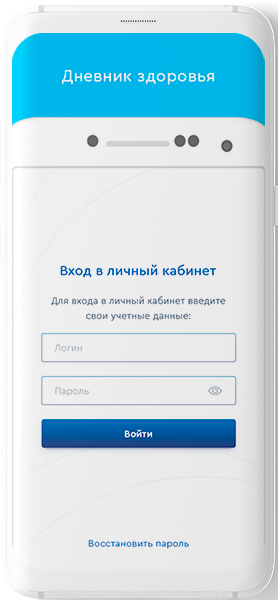
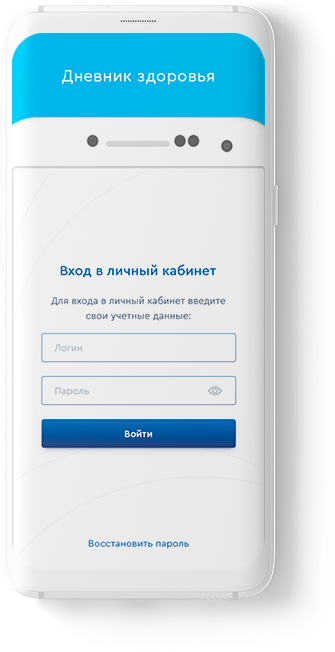
optimization

diff --git a/Redsoft/app/index.html b/Redsoft/app/index.html
@@ -15,7 +15,7 @@
         <header class="promo__header">
           <div class="container header">
             <div class="header__logo">
-              <img src="img/logo-gray.png" alt="Моё здоровье" />
+              <img src="img/logo.png" alt="Моё здоровье" />
             </div>
             <div class="header__nav nav">
               <ul class="nav__list">
@@ -54,10 +54,10 @@
               style="background-image: url(img/slide-1.jpg);"
             ></div>
             <div class="slider__item-inner">
-              <div class="slider__title title">
+              <h2 class="slider__title title">
                 Расширяем возможности предоставления качественных медицинских
                 услуг
-              </div>
+              </h2>
               <div class="slider__text">
                 «Дневник здоровья» – новый сервис для самоконтроля показателей
                 состояния здоровья, разработанный для участников программы «Мое
@@ -76,9 +76,9 @@
               style="background-image: url(img/slide-2.jpg);"
             ></div>
             <div class="slider__item-inner">
-              <div class="slider__title title">
+              <h2 class="slider__title title">
                 Следить за здоровьем станет проще
-              </div>
+              </h2>
               <div class="slider__text">
                 Скоро вы сможете находиться на связи со своим лечащим врачом
                 независимо от своего местоположения, вести дневник мониторинга
@@ -103,12 +103,16 @@
       <div class="account__wrapper">
         <div class="container account-inner">
           <div class="account__image">
-            <img src="img/smart-phone2.png" alt="Дневник здоровья" />
+            <picture>
+              <source type="image/webp" srcset="img/smart-phone.webp" />
+              <source type="image/jpeg" srcset="img/smart-phone.png" />
+              <img src="img/smart-phone.png" alt="Дневник здоровья" />
+            </picture>
           </div>
           <div class="account__info">
-            <div class="account__info-title title">
+            <h2 class="account__info-title title">
               Что такое «Дневник здоровья»?
-            </div>
+            </h2>
             <div class="account__info-text">
               <span>Дневник пациента — это удобный онлайн-сервис:</span>
               <ul>
@@ -142,7 +146,7 @@
     <section id="functions" class="functions">
       <div class="functions__wrapper">
         <div class="container functions-inner">
-          <div class="functions__title title">Функции приложения</div>
+          <h2 class="functions__title title">Функции приложения</h2>
           <div class="functions__items">
             <div class="item">
               <div class="item__icon">
@@ -201,9 +205,9 @@
     <section id="features" class="features">
       <div class="features__wrapper">
         <div class="container-fluid features-inner">
-          <div class="features__title title">
+          <h2 class="features__title title">
             Ведите персональный дневник мониторинга здоровья
-          </div>
+          </h2>
           <div class="features__content">
             <ul class="features__content-list">
               <li class="item">
@@ -249,7 +253,11 @@
               </li>
             </ul>
             <div class="features__content-image">
-              <img src="img/smart-phone-three.png" alt="phones" />
+              <picture>
+                <source type="image/webp" srcset="img/smart-phone-three.webp" />
+                <source type="image/jpeg" srcset="img/smart-phone-three.png" />
+                <img src="img/smart-phone-three.png" alt="phones" />
+              </picture>
             </div>
           </div>
         </div>
@@ -261,12 +269,16 @@
     <section id="spec" class="spec">
       <div class="spec__wrapper">
         <div class="spec__image">
-          <img src="img/tablet.png" alt="Сводка" />
+          <picture>
+            <source type="image/webp" srcset="img/tablet.webp" />
+            <source type="image/jpeg" srcset="img/tablet.png" />
+            <img src="img/tablet.png" alt="Сводка" />
+          </picture>
         </div>
         <div class="spec__info">
-          <div class="spec__info-title title">
+          <h2 class="spec__info-title title">
             Специалистам
-          </div>
+          </h2>
           <div class="spec__info-text">
             <ul>
               <li>
@@ -300,16 +312,16 @@
     <section id="access" class="access">
       <div class="access__wrapper">
         <div class="container access-inner">
-          <div class="access__title title">
+          <h2 class="access__title title">
             Получите бесплатный доступ к «Дневнику здоровья»
-          </div>
+          </h2>
           <div class="access__text">
             Оставьте свою электронную почту <br />и вы узнаете о запуске данного
             сервиса первым!
           </div>
           <form
             id="form-access"
-            action=""
+            action="#"
             method="POST"
             class="access__form form"
           >
@@ -376,7 +388,8 @@
             </button>
           </div>
           <div class="modal__content">
-            <img src="img/icons/check.png" /> Заявка успешно отправленна!
+            <img src="img/icons/check.png" alt="icon" /> Заявка успешно
+            отправленна!
           </div>
         </div>
       </div>

diff --git a/Redsoft/dist/index.html b/Redsoft/dist/index.html
@@ -15,7 +15,7 @@
         <header class="promo__header">
           <div class="container header">
             <div class="header__logo">
-              <img src="img/logo-gray.png" alt="Моё здоровье" />
+              <img src="img/logo.png" alt="Моё здоровье" />
             </div>
             <div class="header__nav nav">
               <ul class="nav__list">
@@ -54,10 +54,10 @@
               style="background-image: url(img/slide-1.jpg);"
             ></div>
             <div class="slider__item-inner">
-              <div class="slider__title title">
+              <h2 class="slider__title title">
                 Расширяем возможности предоставления качественных медицинских
                 услуг
-              </div>
+              </h2>
               <div class="slider__text">
                 «Дневник здоровья» – новый сервис для самоконтроля показателей
                 состояния здоровья, разработанный для участников программы «Мое
@@ -76,9 +76,9 @@
               style="background-image: url(img/slide-2.jpg);"
             ></div>
             <div class="slider__item-inner">
-              <div class="slider__title title">
+              <h2 class="slider__title title">
                 Следить за здоровьем станет проще
-              </div>
+              </h2>
               <div class="slider__text">
                 Скоро вы сможете находиться на связи со своим лечащим врачом
                 независимо от своего местоположения, вести дневник мониторинга
@@ -103,12 +103,16 @@
       <div class="account__wrapper">
         <div class="container account-inner">
           <div class="account__image">
-            <img src="img/smart-phone2.png" alt="Дневник здоровья" />
+            <picture>
+              <source type="image/webp" srcset="img/smart-phone.webp" />
+              <source type="image/jpeg" srcset="img/smart-phone.png" />
+              <img src="img/smart-phone.png" alt="Дневник здоровья" />
+            </picture>
           </div>
           <div class="account__info">
-            <div class="account__info-title title">
+            <h2 class="account__info-title title">
               Что такое «Дневник здоровья»?
-            </div>
+            </h2>
             <div class="account__info-text">
               <span>Дневник пациента — это удобный онлайн-сервис:</span>
               <ul>
@@ -142,7 +146,7 @@
     <section id="functions" class="functions">
       <div class="functions__wrapper">
         <div class="container functions-inner">
-          <div class="functions__title title">Функции приложения</div>
+          <h2 class="functions__title title">Функции приложения</h2>
           <div class="functions__items">
             <div class="item">
               <div class="item__icon">
@@ -201,9 +205,9 @@
     <section id="features" class="features">
       <div class="features__wrapper">
         <div class="container-fluid features-inner">
-          <div class="features__title title">
+          <h2 class="features__title title">
             Ведите персональный дневник мониторинга здоровья
-          </div>
+          </h2>
           <div class="features__content">
             <ul class="features__content-list">
               <li class="item">
@@ -249,7 +253,11 @@
               </li>
             </ul>
             <div class="features__content-image">
-              <img src="img/smart-phone-three.png" alt="phones" />
+              <picture>
+                <source type="image/webp" srcset="img/smart-phone-three.webp" />
+                <source type="image/jpeg" srcset="img/smart-phone-three.png" />
+                <img src="img/smart-phone-three.png" alt="phones" />
+              </picture>
             </div>
           </div>
         </div>
@@ -261,12 +269,16 @@
     <section id="spec" class="spec">
       <div class="spec__wrapper">
         <div class="spec__image">
-          <img src="img/tablet.png" alt="Сводка" />
+          <picture>
+            <source type="image/webp" srcset="img/tablet.webp" />
+            <source type="image/jpeg" srcset="img/tablet.png" />
+            <img src="img/tablet.png" alt="Сводка" />
+          </picture>
         </div>
         <div class="spec__info">
-          <div class="spec__info-title title">
+          <h2 class="spec__info-title title">
             Специалистам
-          </div>
+          </h2>
           <div class="spec__info-text">
             <ul>
               <li>
@@ -300,16 +312,16 @@
     <section id="access" class="access">
       <div class="access__wrapper">
         <div class="container access-inner">
-          <div class="access__title title">
+          <h2 class="access__title title">
             Получите бесплатный доступ к «Дневнику здоровья»
-          </div>
+          </h2>
           <div class="access__text">
             Оставьте свою электронную почту <br />и вы узнаете о запуске данного
             сервиса первым!
           </div>
           <form
             id="form-access"
-            action=""
+            action="#"
             method="POST"
             class="access__form form"
           >
@@ -376,7 +388,8 @@
             </button>
           </div>
           <div class="modal__content">
-            <img src="img/icons/check.png" /> Заявка успешно отправленна!
+            <img src="img/icons/check.png" alt="icon" /> Заявка успешно
+            отправленна!
           </div>
         </div>
       </div>
